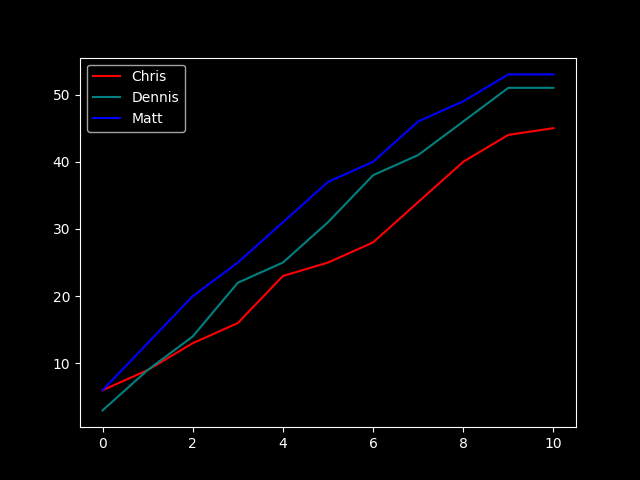
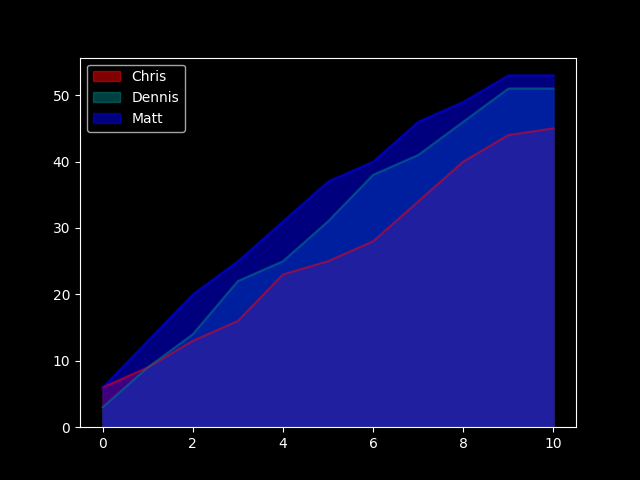
update2021-11-20

diff --git a/nfl-2021/index.html b/nfl-2021/index.html
@@ -386,7 +386,7 @@
   <html>
    <body>
     <p id="updates">
-     updated: 2021-11-20 ...version: k31_a
+     updated: 2021-11-20 ...version: z32_v
     </p>
    </body>
   </html>

diff --git a/nfl-2021/css/custom.css b/nfl-2021/css/custom.css
@@ -9,7 +9,7 @@ html{
   display: block;
   margin-left: auto;
   margin-right: auto;
-  width: 100%;
+  width: 90%;
 }
 
 td

diff --git a/nfl-2021/nfl2021.py b/nfl-2021/nfl2021.py
@@ -480,7 +480,7 @@ csFinal = csFinal[[
 ]]
 
 plt.style.use('dark_background')
-pp = csFinal.plot(style={'Chris':'Red','Dennis':'Teal','Matt':'Blue'})
+pp = csFinal.plot.area(style={'Chris':'Red','Dennis':'Teal','Matt':'Blue'},stacked=False)
 plt.savefig('imgs/progress.png')
 
 finalOutput = pandas.merge(susChris,susDennis,on='Week',how='left')
